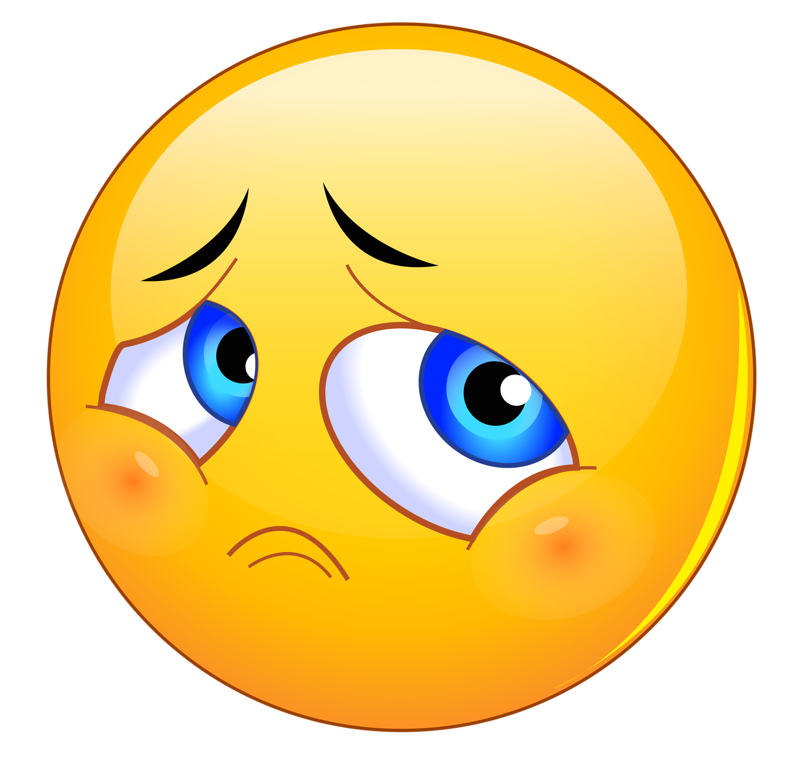
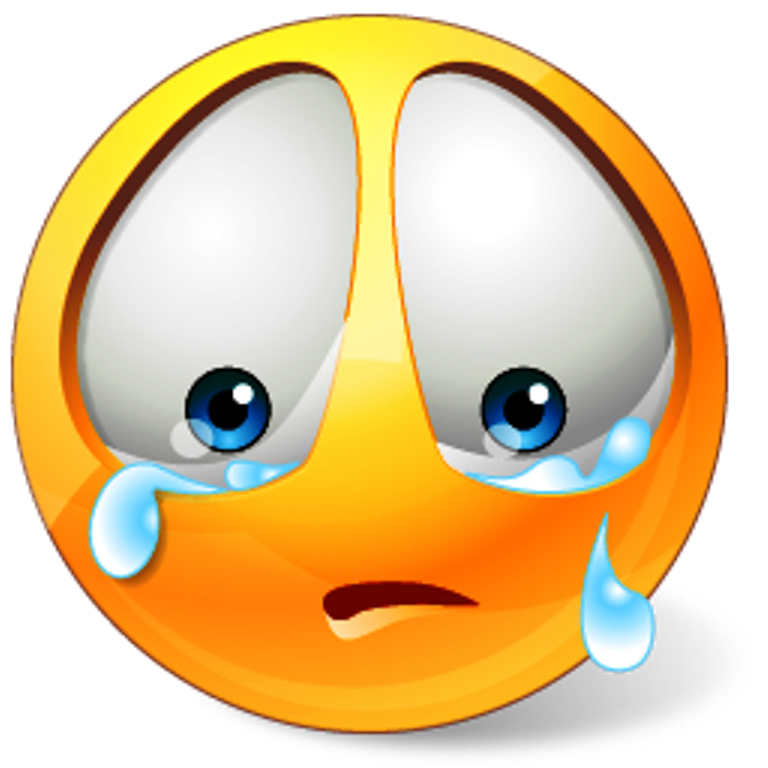
win condition fixed, emojis on click

diff --git a/scripts/app.js b/scripts/app.js
@@ -13,11 +13,10 @@ function init() {
   const overlayTime = document.querySelector('#time')
   const overlayClicks = document.querySelector('#clicks')
   const audio = document.querySelector('.audio')
-  // const smileyFace = document.querySelector('#smiley-face')
+  const face = document.querySelector('#smiley-face')
   const chooseLevel = document.querySelector('#level') 
   
   // * Grid Variables
-  // eslint-disable-next-line prefer-const
   let cells = []
   let width = 9
   grid.style.width = '270px'
@@ -28,17 +27,14 @@ function init() {
 
 
 
-  // eslint-disable-next-line prefer-const
+
   
   // * Game Variables
-  // eslint-disable-next-line prefer-const
   let bombCount = 10 //this will need to be updated to link to width when size increases 
-  // const bombPosition = []
   let bombPositions = []
   let flagPositions = []
   let clickCount = 0
   let totalSeconds = 0
-  // let smiley
   let t
   
   
@@ -75,7 +71,7 @@ function init() {
     clickCounter.textContent = clickCount
     // console.log(`Bomb in divs ${bombPositions}, (${bombPositions.length})`) 
   }
-  // positionBombs(10)
+
   
   
   // -------------------------- Position the hints ------------------------------------------
@@ -102,9 +98,6 @@ function init() {
       // console.log(i,'has bomb?', !cell.classList.contains('bomb'))
       if (!cell.classList.contains('bomb')) {
         if  (westWall && northWestCell && northWestCell.classList.contains('bomb')) ++mineCount
-        // console.log(westWall && northWestCell && northWestCell.classList.contains('bomb'))
-        // console.log(northWestCell)
-        
         if (northCell && northCell.classList.contains('bomb')) mineCount++
         if (eastWall && northEastCell && northEastCell.classList.contains('bomb')) mineCount++
         if (westWall && westCell && westCell.classList.contains('bomb')) mineCount++
@@ -209,13 +202,7 @@ function init() {
   
   // ? --------------------------------Click Events----------------------------------------
   function revealCell(event) {
-    // smileyFace = ('src','/assets/shocked_face.png') //!COME BACK TO THIS WANT THE FACE TO CHANGE ON CLICK
     const cell = event.target
-    // const i = cells.indexOf(cell)
-    // console.log(i)
-    
-    
-    // const i = cells.indexOf(cell)
     clickCount += 1
     clickCounter.textContent = clickCount
     
@@ -223,7 +210,6 @@ function init() {
     if (cell.textContent > '0')  {
       cell.classList.remove('cover') 
       // console.log('removing one cell')
-      // winGame()
     }
     if (cell.textContent === '0' ) {
       findAdjCells()
@@ -299,33 +285,15 @@ function init() {
     clickCounter.textContent = clickCount
   }
 
-
-
-  // ! NEED TO CHANGE NOTHING IS HAPPENING 
-  // function handleMouseEnter(event) {
-  //   console.log('mouse has entered the box')
-  //   const img = document.createElement('img')
-  //   img.setAttribute('src', 'assets/shocked_face.png')
-  //   document.getElementById('smiley-face').appendChild(img)
-  // }
-  // function handleMouseLeave() {
-  //   console.log('mouse has left the box')
-  //   // nameSpan.textContent = ''
-  // }
-  
-  
-  
   
   function gameOver() {
     if (event.target.classList.contains('bomb')) {
       clearInterval(t)
 
-
       audio.src = 'assets/Bomb_noise.wav'
       audio.play()
 
-      // setTimeout(audio.src = 'http://soundbible.com/mp3/Audience_Applause-Matthiew11-1206899159.mp3'
-      // audio.play())
+      face.src  = 'assets/sad_face.png'
       
       cells.filter(cell => {
         if (cell.classList.contains('bomb')) {
@@ -347,8 +315,6 @@ function init() {
       setTimeout(gameStats, 500)
     }
   }
-  
-
 
   // Show statistics of the user's performance after the game is finished
   function gameStats(){
@@ -357,8 +323,14 @@ function init() {
     overlayClicks.textContent = ` ${clickCounter.textContent}`
   }
   
-  function overlayOff() {
-    overlay.style.display = 'none'
+
+
+  function mouseDown(event) {
+    if (event.which === 1) face.src  = 'assets/shocked_face.png'
+  }
+
+  function mouseUp() {
+    face.src  = 'assets/happy_face.png'
   }
 
 
@@ -382,11 +354,14 @@ function init() {
     cells.forEach(cell => cell.addEventListener('click', gameOver))
     cells.forEach(cell => cell.addEventListener('click', winGame))
     cells.forEach(cell => cell.addEventListener('contextmenu', winGame))
-
+    overlay.style.display = 'none'
+    face.src  = 'assets/happy_face.png'
     // t = setInterval(setTime, 1000)
     // location.reload()
   }
-
+  function overlayOff() {
+    overlay.style.display = 'none'
+  }
 
 
 
@@ -397,14 +372,8 @@ function init() {
   window.addEventListener('load', positionHints)
   window.addEventListener('load', coverGrid)
 
-  // resetBtn.addEventListener('click', coverGrid)
-  // resetBtn.addEventListener('click', positionBombs)
-  
-  chooseLevel.addEventListener('change', changeLevel)
-  // chooseLevel.addEventListener('change',positionBombs)
-  // smileyFace.addEventListener('mouseenter', handleMouseEnter)
-  // smileyFace.addEventListener('mouseleave', handleMouseLeave)
 
+  chooseLevel.addEventListener('change', changeLevel)
   cells.forEach(cell => cell.addEventListener('click', gameOver))
   cells.forEach(cell => cell.addEventListener('click', revealCell))
   cells.forEach(cell => cell.addEventListener('contextmenu', addFlag))
@@ -413,8 +382,10 @@ function init() {
   cells.forEach(cell => cell.addEventListener('contextmenu', winGame))
   resetBtn.addEventListener('click', resetGame)
   newGameBtn.addEventListener('click', resetGame)
-
-
+  cells.forEach(cell => cell.addEventListener('mouseup', mouseUp))
+  cells.forEach(cell => cell.addEventListener('mousedown', mouseDown))
   overlay.addEventListener('click', overlayOff)
+
+
 }
 window.addEventListener('DOMContentLoaded', init)

diff --git a/styles/main.css b/styles/main.css
@@ -25,7 +25,6 @@ body {
 .game-board {
   display: flex;
   flex-direction: column;
-  /* width: 450px; */
   position: relative;
   margin: 0 auto;
   padding-top: 10px;
@@ -36,8 +35,7 @@ body {
   display: flex;
   background-color: #4F6272;
   border-radius: 50px 50px 0 0;
-
-  height: 15vh;
+  height: 100px;
   justify-content: space-evenly;
   align-items: center;
   box-shadow: 0 0 20px 0 rgba(0, 0, 0, 0.2);
@@ -57,7 +55,6 @@ body {
 .options-wrapper {
   display: flex;
   flex-direction: column;
-  /* order: 2; */
   justify-content: space-around;
   /* border: black solid 1px; */
   align-items: center;
@@ -94,7 +91,6 @@ body {
 
 .timer {
   display: inline;
-  /* position: fixed; */
 }
 
 .bomb-counter, .game-counter {
@@ -114,13 +110,7 @@ body {
 #reset:active {
   transform: translateX(2px) translateY(3px);
 }
-/* 
-#rest .shocked-face {
-  display: none;
-}
-#reset:hover .shocked-face {
-  display: inline;
-} */
+
 
 .grid {
   align-items: center;
@@ -142,19 +132,12 @@ body {
   
 }
 
-/* select {
-  width: 200px;
-  height: 30px;
-} */
-
 /* -----------------------Extra Styling---------------- */
 
 .grid div.bomb {
-  background-color: red;
   background-repeat: no-repeat;
   background-size: contain;
   background-position: center;
-  cursor: pointer;
   font-weight: lighter;
   color: rgb(120, 120, 120);
   color: transparent;
@@ -163,18 +146,12 @@ body {
   background-image: url(../assets/bomb2.gif);
 }
 
-/* .grid div.hint {
-  
-  font-size: 10px;
-  color:black;
-} */
 
 .grid div.cover {
   border: 0.5px solid #E5E8E8 ;
-  /* background-color: rgba(0,0,0,0.2); */
-  /* color: transparent;  */
-  /* box-shadow: inset 5px 5px 10px #FFF, inset -3px -3px 5px #707B7C;  */
-  /* z-index: 1; */
+  background-color: rgba(0,0,0,0.2);
+  color: transparent; 
+  box-shadow: inset 5px 5px 10px #FFF, inset -3px -3px 5px #707B7C; 
 }
 
 .grid div.flag {
@@ -191,11 +168,6 @@ select {
   margin-bottom: 5px;
   height: 30px;
 }
-/* .game-sizes { 
-  position: absolute;
-  bottom: 0;
-  box-shadow: 0 0 20px 0 rgba(0, 0, 0, 0.2);
-} */
 
 #overlay {
   position: fixed; /* Sit on top of the page content */
@@ -209,7 +181,6 @@ select {
   background-color: rgba(0,0,0,0.5); /* Black background with opacity */
   z-index: 2; /* Specify a stack order in case you're using a different order for other elements */
   cursor: pointer; /* Add a pointer on hover */
-  /* display: flex; SETTING THIS RUINS THE OVERLAY */
 }
 
 #overlay-box {
@@ -217,14 +188,11 @@ select {
   width: 600px; 
   height: 80%; 
   background-color: #ffffff; 
-  cursor: pointer; 
   border-radius: 75px;
   text-align: center;
 }
 #overlay-text {
-  /* /* display: flex; SETTING THIS RUINS THE OVERLAY */
  padding-top: 30px;
-
 }
 
 #overlay h2 {
@@ -241,6 +209,7 @@ select {
   width: 300px;
   height: 75px;
   border-radius: 100px;
+  outline: none;
   font-family: 'Montserrat', sans-serif;
   font-size: 20px;
   color: black;

diff --git a/index.html b/index.html
@@ -21,9 +21,7 @@
 
     
     <button id ="reset">
-      <!-- <img src="#" alt="smiley" id="smiley-face"> -->
       <img src="assets/happy_face.png" id="smiley-face" alt="happy face" width='80px'>
-      <!-- <img src="assets/shocked_face.png" id="shocked-face" alt="shocked face" width='80px'> -->
     </button>
     
     <div class='game-counter'>
@@ -53,8 +51,8 @@
   <div id="overlay">
     <div id="overlay-box">
       <div id="overlay-text">
-    <img src="assets/happy_face.png" alt="happy face" width = 90px>
-    <h2 class="overlay-title">YOU WIN</h2>
+    <img src="assets/win_face.png" id="win-face" alt="congats emoji" height = 180px>
+    <h2 class="overlay-title">CONGRATULATIONS<br>YOU WIN</h2>
     <p>Time:<span id="time"></span></p>
     <p>Clicks:<span id="clicks"></span></p>
     <button id="new-game">New Game</button>
